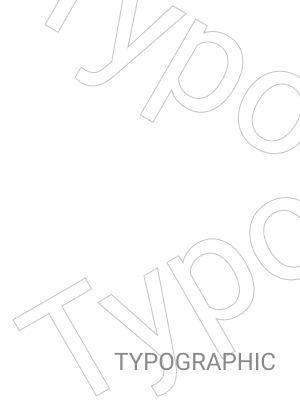
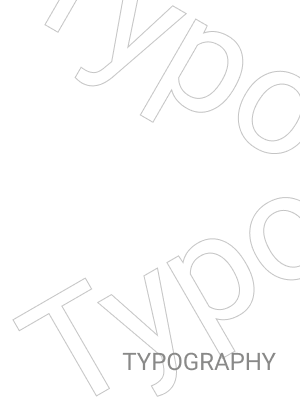
fix typo: typographic -> typography

Changed region(s): [[0.39, 0.87, 0.93, 0.93]]

diff --git a/pages/typography.tsx b/pages/typography.tsx
@@ -7,17 +7,17 @@ import Header from '@components/header'
 import Footer from '@components/footer'
 import Card from '@components/card'
 
-export default function Typographic() {
+export default function Typography() {
   return (
     <Page meta={{
-      title: 'Typographic',
-      description: 'Typographic page'
+      title: 'Typography',
+      description: 'Typography page'
     }}>
       <Header />
       <section className={st.cardlayout}>
         <div className={st.inner}>
           <Card>
-            <Link href="/typographic/pantone2021" >
+            <Link href="/typography/pantone2021" >
               <a>
                 <Image src="/images/typo/typo-2.png" alt="pantone color of 2021 image" layout="fill" />
                 <span className={st.sr}>pantone color of 2021 image</span>
@@ -25,7 +25,7 @@ export default function Typographic() {
             </Link>
           </Card>
           <Card>
-            <Link href="/typographic/infographic" >
+            <Link href="/typography/infographic" >
               <a>
                 <Image src="/images/typo/typo-1.png" alt="Infographic image" layout="fill" />
                 <span className={st.sr}>Infographic image</span>
@@ -33,7 +33,7 @@ export default function Typographic() {
             </Link>
           </Card>
           <Card>
-            <Link href="/typographic/blurtext" >
+            <Link href="/typography/blurtext" >
               <a>
                 <Image src="/images/typo/typo-3.png" alt="Blur text image" layout="fill" />
                 <span className={st.sr}>Blur text image</span>
@@ -41,7 +41,7 @@ export default function Typographic() {
             </Link>
           </Card>
           <Card>
-            <Link href="/typographic/spelling" >
+            <Link href="/typography/spelling" >
               <a>
                 <Image src="/images/typo/typo-4.png" alt="Spelling image" layout="fill" />
                 <span className={st.sr}>Spelling image</span>
@@ -49,7 +49,7 @@ export default function Typographic() {
             </Link>
           </Card>
           <Card>
-            <Link href="/typographic/tape" >
+            <Link href="/typography/tape" >
               <a>
                 <Image src="/images/typo/typo-5.png" alt="Tape animation image" layout="fill" />
                 <span className={st.sr}>Tape animation image</span>
@@ -57,7 +57,7 @@ export default function Typographic() {
             </Link>
           </Card>
           <Card>
-            <Link href="/typographic/circlerotate" >
+            <Link href="/typography/circlerotate" >
               <a>
                 <Image src="/images/typo/typo-6.png" alt="Circle path image" layout="fill" />
                 <span className={st.sr}>Circle path image</span>
@@ -65,7 +65,7 @@ export default function Typographic() {
             </Link>
           </Card>
           <Card>
-            <Link href="/typographic/mixblend" >
+            <Link href="/typography/mixblend" >
               <a>
                 <Image src="/images/typo/typo-7.png" alt="Mixblend text image" layout="fill" />
                 <span className={st.sr}>Mixblend text image</span>
@@ -73,7 +73,7 @@ export default function Typographic() {
             </Link>
           </Card>
           <Card>
-            <Link href="/typographic/stairs" >
+            <Link href="/typography/stairs" >
               <a>
                 <Image src="/images/typo/typo-8.png" alt="Stairs image" layout="fill" />
                 <span className={st.sr}>Stairs image</span>
@@ -81,7 +81,7 @@ export default function Typographic() {
             </Link>
           </Card>
           <Card>
-            <Link href="/typographic/number" >
+            <Link href="/typography/number" >
               <a>
                 <Image src="/images/typo/typo-9.png" alt="Number image" layout="fill" />
                 <span className={st.sr}>Number image</span>
@@ -89,7 +89,7 @@ export default function Typographic() {
             </Link>
           </Card>
           <Card>
-            <Link href="/typographic/scaletext" >
+            <Link href="/typography/scaletext" >
               <a>
                 <Image src="/images/typo/typo-10.png" alt="Scale text image" layout="fill" />
                 <span className={st.sr}>Scale text image</span>
@@ -97,7 +97,7 @@ export default function Typographic() {
             </Link>
           </Card>
           <Card>
-            <Link href="/typographic/changecolor" >
+            <Link href="/typography/changecolor" >
               <a>
                 <Image src="/images/typo/typo-11.png" alt="Moves center the circle image" layout="fill" />
                 <span className={st.sr}>Moves center the circle image</span>
@@ -105,7 +105,7 @@ export default function Typographic() {
             </Link>
           </Card>
           <Card>
-            <Link href="/typographic/textgradation" >
+            <Link href="/typography/textgradation" >
               <a>
                 <Image src="/images/typo/typo-12.png" alt="Text gradation image" layout="fill" />
                 <span className={st.sr}>Text gradation image</span>

diff --git a/components/header/index.tsx b/components/header/index.tsx
@@ -10,7 +10,7 @@ const Header = () => (
       <div className={st.gnb}>
         <Link href="/#"><a>3D<span> GRAPHICS</span></a></Link>
         <Link href="/#"><a>UI<span> & VISUALIZATION</span></a></Link>
-        <Link href="/typographic"><a>TYPO<span>GRAPHIC</span></a></Link>
+        <Link href="/typography"><a>TYPO<span>GRAPHY</span></a></Link>
         {/* <Link href="https://github.com/wfedev">
           <a>
             <svg width="20" height="20" viewBox="0 0 34 34" fill="none" xmlns="http://www.w3.org/2000/svg"><path d="M12.2633 27.3373C12.0269 27.3813 11.9236 27.4923 11.9532 27.6692C11.9827 27.8462 12.1155 27.9054 12.3516 27.8462C12.588 27.7873 12.6912 27.6838 12.6615 27.5363C12.6322 27.3741 12.4994 27.3076 12.2633 27.3373V27.3373ZM11.0015 27.5145C10.7653 27.5145 10.6473 27.5952 10.6473 27.7579C10.6473 27.9497 10.7728 28.0307 11.0236 28.0012C11.2597 28.0012 11.3779 27.92 11.3779 27.7579C11.3779 27.5663 11.2524 27.4848 11.0015 27.5145ZM9.27494 27.4476C9.21601 27.6101 9.312 27.7205 9.56265 27.7798C9.784 27.8679 9.92426 27.8238 9.98318 27.6469C10.0275 27.4848 9.93155 27.367 9.69546 27.2927C9.47404 27.2339 9.33394 27.2848 9.27494 27.4476Z" fill="black"></path><path d="M32.1296 1.87028C30.8826 0.623503 29.3814 0 27.6249 0H6.37498C4.61906 0 3.11736 0.623503 1.87028 1.87028C0.623503 3.11728 0 4.61898 0 6.37498V27.6253C0 29.3813 0.623503 30.8829 1.87028 32.1296C3.11728 33.3767 4.61906 34.0002 6.37498 34.0002H11.3333C11.6577 34.0002 11.9014 33.989 12.0636 33.9673C12.2258 33.945 12.388 33.849 12.5505 33.6791C12.713 33.5095 12.7939 33.2623 12.7939 32.9378C12.7939 32.8937 12.79 32.3915 12.7827 31.4323C12.7752 30.4729 12.7716 29.713 12.7716 29.1522L12.2624 29.2408C11.9378 29.2997 11.5283 29.3257 11.0339 29.3182C10.5397 29.3108 10.0268 29.2593 9.49559 29.1633C8.96412 29.0673 8.46994 28.846 8.01243 28.4995C7.55515 28.1524 7.23053 27.6988 7.03864 27.1381L6.81721 26.6287C6.66967 26.2896 6.43739 25.9131 6.12005 25.5003C5.80272 25.0869 5.48182 24.8065 5.1572 24.6589L5.00221 24.5482C4.89902 24.4745 4.80311 24.3856 4.7145 24.2824C4.62603 24.1789 4.55967 24.0754 4.5154 23.9725C4.47113 23.869 4.50788 23.7841 4.62603 23.7175C4.74419 23.6512 4.95794 23.6183 5.26799 23.6183L5.71054 23.6846C6.00577 23.7435 6.37079 23.9204 6.80636 24.2158C7.24162 24.5108 7.59942 24.8945 7.87985 25.3666C8.21944 25.9718 8.62857 26.4326 9.1084 26.7499C9.58786 27.0676 10.0713 27.2262 10.5582 27.2262C11.045 27.2262 11.4656 27.1893 11.8199 27.1158C12.1738 27.0418 12.5059 26.9309 12.8159 26.7834C12.9487 25.7948 13.3103 25.0343 13.9004 24.5032C13.0594 24.4146 12.3031 24.2819 11.6315 24.1047C10.9602 23.9274 10.2666 23.6399 9.55095 23.2413C8.83503 22.8428 8.24114 22.3487 7.7689 21.7581C7.29674 21.1675 6.90924 20.3928 6.60695 19.4339C6.3045 18.4744 6.15324 17.3675 6.15324 16.1133C6.15324 14.3279 6.73635 12.8076 7.9021 11.5534C7.35597 10.2106 7.40753 8.70555 8.05693 7.03787C8.4849 6.90498 9.11957 7.00468 9.96062 7.33675C10.8018 7.66904 11.4177 7.95319 11.809 8.18897C12.2002 8.42482 12.5136 8.62422 12.7498 8.78673C14.1225 8.40303 15.539 8.21122 16.9999 8.21122C18.4606 8.21122 19.8774 8.40303 21.2502 8.78673L22.0913 8.25549C22.6671 7.90117 23.3458 7.57655 24.128 7.28154C24.9101 6.98646 25.5077 6.90521 25.9211 7.0381C26.5849 8.70579 26.6443 10.2108 26.0977 11.5536C27.2635 12.8079 27.8468 14.3281 27.8468 16.1136C27.8468 17.368 27.6955 18.4786 27.3931 19.445C27.0908 20.4116 26.7 21.1866 26.22 21.7694C25.7406 22.3524 25.1428 22.8427 24.4272 23.2414C23.7114 23.6397 23.0178 23.9278 22.3463 24.1045C21.6748 24.2817 20.9186 24.4149 20.0775 24.5036C20.8443 25.1674 21.228 26.2148 21.228 27.6465V32.9371C21.228 33.188 21.2645 33.3908 21.3384 33.5457C21.4126 33.7007 21.5305 33.8073 21.6928 33.8668C21.8557 33.9257 21.9989 33.9626 22.1247 33.9772C22.2504 33.992 22.4308 33.9995 22.667 33.9995H27.6253C29.3813 33.9995 30.883 33.376 32.1295 32.129C33.3765 30.8819 34 29.3802 34 27.6243V6.37498C33.9998 4.61898 33.3763 3.11705 32.1296 1.87028V1.87028Z" fill="black"></path><path d="M6.72914 24.7474C6.62594 24.8209 6.64067 24.939 6.77348 25.1014C6.92126 25.2488 7.03918 25.2711 7.1278 25.1677C7.23099 25.0942 7.21626 24.9761 7.08322 24.8134C6.93576 24.6808 6.81775 24.6586 6.72914 24.7474ZM5.99887 24.194C5.95468 24.2975 6.00632 24.3862 6.15386 24.4596C6.27178 24.5337 6.368 24.5191 6.44157 24.4156C6.48577 24.3121 6.43413 24.2235 6.28659 24.1494C6.13905 24.1051 6.04314 24.12 5.99887 24.194ZM7.41552 25.6108C7.28255 25.6843 7.28255 25.8175 7.41552 26.0091C7.54833 26.2012 7.67354 26.2527 7.79177 26.164C7.92466 26.0606 7.92466 25.9204 7.79177 25.7433C7.67385 25.5519 7.54833 25.5071 7.41552 25.6108V25.6108ZM8.19044 26.6066C8.05755 26.7249 8.08686 26.8645 8.27898 27.0274C8.45583 27.2041 8.60345 27.2263 8.72152 27.0932C8.83968 26.9754 8.81014 26.8354 8.63298 26.673C8.45614 26.4962 8.30852 26.4739 8.19044 26.6066V26.6066Z" fill="black"></path></svg>

diff --git a/pages/main.tsx b/pages/main.tsx
@@ -26,9 +26,9 @@ export default function Main() {
               <span className={st.sr}>UI Card image</span>
             </a>
           </Link>
-          <Link href="/typographic">
+          <Link href="/typography">
             <a>
-              <p>TYPOGRAPHIC</p>
+              <p>TYPOGRAPHY</p>
               <Image src="/images/main/card_typo.png" alt="card image" layout="fill" />
               <span className={st.sr}>Typo Card image</span>
             </a>

diff --git a/pages/typography/mixblend.tsx b/pages/typography/mixblend.tsx
@@ -1,6 +1,6 @@
 import cn from 'classnames'
 
-import st from '@styles/typographic/mixblend.module.scss'
+import st from '@styles/typography/mixblend.module.scss'
 import Page from '@components/seopage'
 import Header from '@components/header'
 import Footer from '@components/footer'

diff --git a/pages/typography/stairs.tsx b/pages/typography/stairs.tsx
@@ -1,6 +1,6 @@
 import Image from 'next/image'
 
-import st from '@styles/typographic/stairs.module.scss'
+import st from '@styles/typography/stairs.module.scss'
 import Page from '@components/seopage'
 import Header from '@components/header'
 import Footer from '@components/footer'

diff --git a/pages/typography/textgradation.tsx b/pages/typography/textgradation.tsx
@@ -1,4 +1,4 @@
-import st from '@styles/typographic/textgradation.module.scss'
+import st from '@styles/typography/textgradation.module.scss'
 import Page from '@components/seopage'
 import Header from '@components/header'
 import Footer from '@components/footer'

diff --git a/pages/typography/circlerotate.tsx b/pages/typography/circlerotate.tsx
@@ -1,4 +1,4 @@
-import st from '@styles/typographic/circlerotate.module.scss'
+import st from '@styles/typography/circlerotate.module.scss'
 import Page from '@components/seopage'
 import Header from '@components/header'
 import Footer from '@components/footer'

diff --git a/pages/typography/changecolor.tsx b/pages/typography/changecolor.tsx
@@ -1,4 +1,4 @@
-import st from '@styles/typographic/changecolor.module.scss'
+import st from '@styles/typography/changecolor.module.scss'
 import Page from '@components/seopage'
 import Header from '@components/header'
 import Footer from '@components/footer'

diff --git a/pages/typography/infographic.tsx b/pages/typography/infographic.tsx
@@ -1,4 +1,4 @@
-import st from '@styles/typographic/infographic.module.scss'
+import st from '@styles/typography/infographic.module.scss'
 import Page from '@components/seopage'
 import Header from '@components/header'
 import Footer from '@components/footer'

diff --git a/pages/typography/pantone2021.tsx b/pages/typography/pantone2021.tsx
@@ -1,4 +1,4 @@
-import st from '@styles/typographic/pantone2021.module.scss'
+import st from '@styles/typography/pantone2021.module.scss'
 import Page from '@components/seopage'
 import Header from '@components/header'
 import Footer from '@components/footer'

diff --git a/pages/typography/scaletext.tsx b/pages/typography/scaletext.tsx
@@ -1,4 +1,4 @@
-import st from '@styles/typographic/scaletext.module.scss'
+import st from '@styles/typography/scaletext.module.scss'
 import Page from '@components/seopage'
 import Header from '@components/header'
 import Footer from '@components/footer'

diff --git a/pages/typography/blurtext.tsx b/pages/typography/blurtext.tsx
@@ -1,4 +1,4 @@
-import st from '@styles/typographic/blurtext.module.scss'
+import st from '@styles/typography/blurtext.module.scss'
 import Page from '@components/seopage'
 import Header from '@components/header'
 import Footer from '@components/footer'
